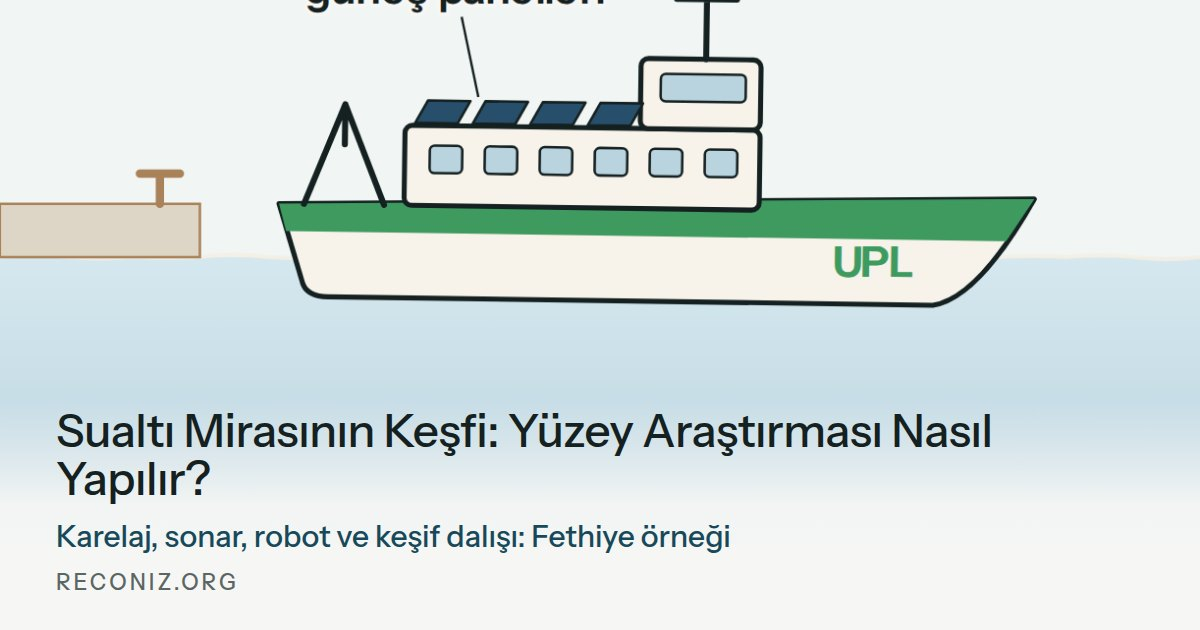
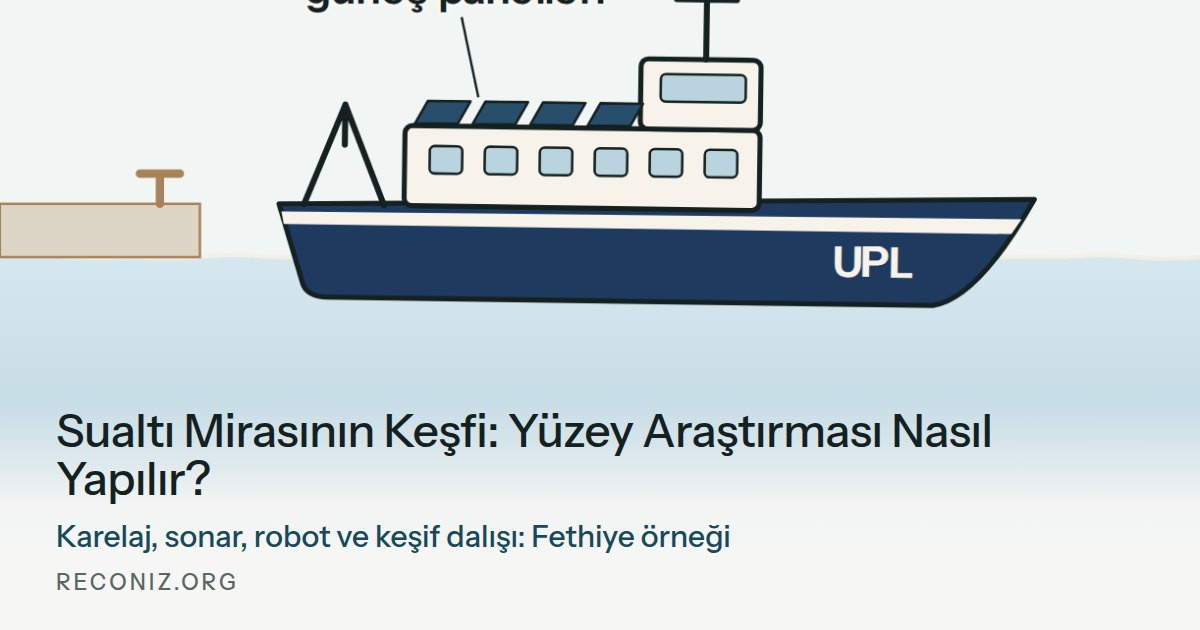
Yüzey araştırması: gemi lacivert-beyaz, ekip sahnesi (kaptan, Hakan Öniz, üç asistan, aşçı ve dalgıç)
Claude-Session: https://claude.ai/code/session_01KpGqkUWi5wxkv8FByy6VdA

diff --git a/arastirma/index.html b/arastirma/index.html
@@ -267,9 +267,9 @@ sup a{color:inherit;text-decoration:none}
 @keyframes wig{from{transform:rotate(-7deg)}to{transform:rotate(7deg)}}
 @media (prefers-reduced-motion: reduce){ .wig{animation:none} .step p{transition:none} }
 /* Sualtı Mirasının Keşfi: Yüzey Araştırması Nasıl Yapılır? */
-:root{ --paper:#FBF7EC; --gold:#D8A93A; --stone:#DDD6C6; --green:#3E9A5F; --panel:#274F6B; --d0:#C6DFEA; --d1:#93C0D4; --d2:#5E9BB8; }
-@media (prefers-color-scheme: dark){ :root:not([data-theme="light"]){ --paper:#2B2A24; --gold:#E0B64A; --stone:#7C7667; --green:#57B67A; --panel:#3B6E8F; --d0:#417C91; --d1:#285D72; --d2:#143B4C; } }
-:root[data-theme="dark"]{ --paper:#2B2A24; --gold:#E0B64A; --stone:#7C7667; --green:#57B67A; --panel:#3B6E8F; --d0:#417C91; --d1:#285D72; --d2:#143B4C; }
+:root{ --paper:#FBF7EC; --gold:#D8A93A; --stone:#DDD6C6; --navy:#1F3A5F; --panel:#274F6B; --d0:#C6DFEA; --d1:#93C0D4; --d2:#5E9BB8; }
+@media (prefers-color-scheme: dark){ :root:not([data-theme="light"]){ --paper:#2B2A24; --gold:#E0B64A; --stone:#7C7667; --navy:#3A5C8C; --panel:#3B6E8F; --d0:#417C91; --d1:#285D72; --d2:#143B4C; } }
+:root[data-theme="dark"]{ --paper:#2B2A24; --gold:#E0B64A; --stone:#7C7667; --navy:#3A5C8C; --panel:#3B6E8F; --d0:#417C91; --d1:#285D72; --d2:#143B4C; }
 </style>
 <meta property="og:type" content="website">
 <meta property="og:site_name" content="RecOniz">
@@ -346,7 +346,8 @@ tr:{title:"Sualtı Mirasının Keşfi: Yüzey Araştırması Nasıl Yapılır?",
   `Karelerin üzerine derinlik haritası gelir. Hangi karede dalgıcın, hangisinde yalnızca sonarın ve robotun çalışabileceğini derinlik belirler.${n(2)}`,
   `Hangi kareden başlanacağını ise denizi bilenler söyler. Kaptanlarla, dalgıçlarla, balıkçılarla konuşulur; ağın nereye takıldığı, dipte nerede küp görüldüğü sorulur ve kareler buna göre sıraya konur.${n(2)}`,
   `Sıra belli olunca ekip, Kültür ve Turizm Bakanlığı’nın izniyle denize açılır. UPL 38 metrelik bir araştırma gemisidir; makineleri dışındaki bütün elektriğini güneş panellerinden alan yeşil bir gemidir.${n(3)}`,
-  `Gemide on sekiz araştırmacı sonar görüntüsünü aynı anda izleyebilir; dalgıçlar için beş kişilik bir basınç odası da vardır.${n(3)}`,
+  `Gemide kaptan, araştırmanın başkanı ve geminin sorumlusu Hakan Öniz, üç asistanı ve hem aşçı hem dalgıç olan bir ekip üyesi vardır.`,
+  `Sonar görüntüsünü on sekiz araştırmacı aynı anda izleyebilir; dalgıçlar için beş kişilik bir basınç odası da vardır.${n(3)}`,
   `İlk karede gemi, tarlasını süren bir çiftçi gibi bir uçtan öbürüne gidip gelir. Çok ışınlı sonar, 500 metre derinliğe kadar dibin üç boyutlu görüntüsünü çıkarır.${n(4)}`,
   `Görüntünün çoğu kum ve kayadır. Arada bir, dibe uymayan bir biçim belirir: bir anomali.${n(2)}`,
   `Görüntü arkeolojik bir olasılık taşıyorsa o derinliğe bir robot indirilir. Robotun kamerası kayayı yükten ayırır.${n(4)}`,
@@ -354,18 +355,18 @@ tr:{title:"Sualtı Mirasının Keşfi: Yüzey Araştırması Nasıl Yapılır?",
   `O sezon Fethiye kıyılarında üç batık ve daha önce bilinmeyen bir antik demirleme yeri belgelenir: Tunç Çağı’ndan Osmanlı dönemine kadar gemilerin gelip demir attığı bir yer.${n(1)}`,
   `Belgelenen her buluntu Kültür ve Turizm Bakanlığı’na bildirilir ve envantere geçer; yeri yayımlanmaz.${n(2)} O sezon on yeni batıkla birlikte envanterdeki batık sayısı 411’den 421’e çıkar.${n(1)}`,
   `Masadaki haritada birkaç kare artık boş değildir. Deniz yukarıdan yine aynı görünür; ama altındakilerden birkaçı daha bilinmektedir.`],
- L:{fe:"Fethiye, 2025",grid:"karelaj",dmap:"derinlik haritası",sh:"sığ",dp:"derin",pri:"öncelik sırası",sol:"güneş panelleri",res:"18 araştırmacı",ch:"basınç odası: 5 kişi",son:"çok ışınlı sonar",an:"anomali",rov:"robot",dive:"keşif dalışı",w3:"3 batık",anc:"antik demirleme yeri",era1:"Tunç Çağı",era2:"Osmanlı",min:"Kültür ve Turizm Bakanlığı",inv:"envanterdeki batık",loc:"konum yayımlanmaz",sq:"taranan kareler"},
+ L:{fe:"Fethiye, 2025",grid:"karelaj",dmap:"derinlik haritası",sh:"sığ",dp:"derin",pri:"öncelik sırası",sol:"güneş panelleri",res:"18 araştırmacı",ch:"basınç odası: 5 kişi",son:"çok ışınlı sonar",an:"anomali",rov:"robot",dive:"keşif dalışı",w3:"3 batık",anc:"antik demirleme yeri",era1:"Tunç Çağı",era2:"Osmanlı",min:"Kültür ve Turizm Bakanlığı",inv:"envanterdeki batık",loc:"konum yayımlanmaz",sq:"taranan kareler",cap:"kaptan",ho:"Hakan Öniz",ast:"asistanlar",cook:"aşçı ve dalgıç"},
  uH:"UPL nasıl bir gemi?",
  uP:`UPL, Antalya’da yaklaşık bir yılda yapılan 38 metrelik bir sualtı arkeolojisi araştırma gemisidir; adını, yapımını destekleyen şirketten alır ve 2022’de tanıtılmıştır. 500 metre derinliğe kadar çalışan çok ışınlı bir sonar, görüntü ve örnek alabilen robotlar ve dalış kazalarına karşı beş kişilik bir basınç odası taşır. Makineleri dışındaki bütün elektriğini güneş panellerinden karşılar.${n(3)}`,
  fH:"Fethiye’de ne bulundu?",
  fP:`2025’te Fethiye kıyılarında üç batık ile daha önce bilinmeyen bir antik demirleme yeri belgelenmiştir. Demirleme yerinin Tunç Çağı’ndan Osmanlı dönemine kadar kullanıldığı; Mısır, Filistin, Lübnan ve Suriye kıyılarından gelen gemilerin burada fırtınadan korunduğu düşünülür. Araştırma, Kültür ve Turizm Bakanlığı’nın izniyle, “Geleceğe Miras Projesi” kapsamında, Akdeniz Üniversitesi’nden Hakan Öniz’in başkanlığında yürütülmüştür.${n(1)}`,
  kH:"Bu anlatım neye dayanıyor?",
- kP:`Geminin donanımı ve Fethiye’deki sonuçlar yayımlanmış haberlerden alınmıştır. Karelaj, derinlik haritası, denizcilerle görüşme ve buluntuların bildirilmesi adımları ise Hakan Öniz’in aktardığı çalışma yöntemine dayanır. Haritadaki kareler, derinlik renkleri ve işaretler şematiktir; hiçbir buluntunun yerini göstermez.${n(2)}`,
+ kP:`Geminin donanımı ve Fethiye’deki sonuçlar yayımlanmış haberlerden alınmıştır. Karelaj, derinlik haritası, denizcilerle görüşme ve buluntuların bildirilmesi adımları ise Hakan Öniz’in aktardığı çalışma yöntemine dayanır; ekibin tanıtımı ise anlatıcının gözlemidir. Haritadaki kareler, derinlik renkleri ve işaretler şematiktir; hiçbir buluntunun yerini göstermez.${n(2)}`,
  N:["DenizHaber (2025).","Yöntemin bu adımı Hakan Öniz’in aktardıklarına dayanır; yayımlanmış bir kaynağı yoktur.","Arkeolojik Haber (2022); Harman Time (2022).","Arkeolojik Haber (2022)."],
  refH:"Kaynaklar", notesH:"Notlar", refNote:"Kaynakça APA 7. baskı biçimindedir.",
  hint:"Kaydırarak ilerleyin",
  useH:"Kullanım",
- useSimple:"Bu sayfa konuyu herkesin anlayabileceği biçimde anlatmak için hazırlanmıştır; çizimler ve canlandırma şematiktir, ölçekli değildir. Gemi, sonar görüntüsü, robot ve harita çizimleri gerçek görünümleri göstermez; buluntu yerleri yayımlanmaz.",
+ useSimple:"Bu sayfa konuyu herkesin anlayabileceği biçimde anlatmak için hazırlanmıştır; çizimler ve canlandırma şematiktir, ölçekli değildir. Gemi, sonar görüntüsü, robot ve harita çizimleri gerçek görünümleri göstermez; buluntu yerleri yayımlanmaz. Ekip çizimleri, üyelerin anlatılan özelliklerinden yola çıkan şematik çizimlerdir; portre değildir.",
  credDev:"İçerik: Hakan Öniz · Anlatım: Muhammed Parlak (2026).",
  priv:"Sayfa ziyaretleri, çerez kullanılmadan ve kişisel veri toplanmadan anonim olarak sayılır.",
  rights:"© 2026 Muhammed Parlak. Tüm hakları saklıdır. Sayfa akademik, eğitsel ve kişisel amaçlarla ücretsiz kullanılabilir; kopyalanması, değiştirilmesi ya da yeniden dağıtılması yazılı izne bağlıdır.",
@@ -379,7 +380,8 @@ en:{title:"Discovering Underwater Heritage: How Is a Survey Carried Out?",
   `A depth map is laid over the squares. Depth decides in which square a diver can work, and in which only the sonar and the robot can.${n(2)}`,
   `Which square to start with is told by those who know the sea. The team talks with captains, divers and fishermen, asking where nets snag and where jars have been seen on the bottom; the squares are ranked accordingly.${n(2)}`,
   `Once the order is set, the team puts to sea with the permission of the Ministry of Culture and Tourism. UPL is a 38-metre research vessel: a green ship that draws all its electricity, except for its engines, from solar panels.${n(3)}`,
-  `On board, eighteen researchers can watch the sonar image at the same time; for the divers there is also a five-person pressure chamber.${n(3)}`,
+  `On board are the captain; Hakan Öniz, who heads the survey and is in charge of the ship; his three assistants; and a team member who is both cook and diver.`,
+  `Eighteen researchers can watch the sonar image at the same time; for the divers there is also a five-person pressure chamber.${n(3)}`,
   `In the first square the ship goes back and forth from one end to the other, like a farmer ploughing a field. The multibeam sonar builds a three-dimensional image of the seabed down to 500 metres.${n(4)}`,
   `Most of the image is sand and rock. Now and then a shape appears that does not belong to the bottom: an anomaly.${n(2)}`,
   `If the image holds archaeological promise, a robot is sent down to that depth. Its camera tells rock from cargo.${n(4)}`,
@@ -387,18 +389,18 @@ en:{title:"Discovering Underwater Heritage: How Is a Survey Carried Out?",
   `That season, three wrecks and a previously unknown ancient anchorage are documented off Fethiye: a place where ships came and dropped anchor from the Bronze Age to Ottoman times.${n(1)}`,
   `Every find that is documented is reported to the Ministry of Culture and Tourism and entered in the inventory; its position is not published.${n(2)} With ten new wrecks that season, the number of wrecks in the inventory rises from 411 to 421.${n(1)}`,
   `On the map on the table, a few squares are no longer empty. From above the sea looks the same as before; but a few more of the things beneath it are now known.`],
- L:{fe:"Fethiye, 2025",grid:"survey grid",dmap:"depth map",sh:"shallow",dp:"deep",pri:"order of priority",sol:"solar panels",res:"18 researchers",ch:"pressure chamber: 5 people",son:"multibeam sonar",an:"anomaly",rov:"robot",dive:"exploration dive",w3:"3 wrecks",anc:"ancient anchorage",era1:"Bronze Age",era2:"Ottoman",min:"Ministry of Culture and Tourism",inv:"wrecks in the inventory",loc:"position not published",sq:"squares scanned"},
+ L:{fe:"Fethiye, 2025",grid:"survey grid",dmap:"depth map",sh:"shallow",dp:"deep",pri:"order of priority",sol:"solar panels",res:"18 researchers",ch:"pressure chamber: 5 people",son:"multibeam sonar",an:"anomaly",rov:"robot",dive:"exploration dive",w3:"3 wrecks",anc:"ancient anchorage",era1:"Bronze Age",era2:"Ottoman",min:"Ministry of Culture and Tourism",inv:"wrecks in the inventory",loc:"position not published",sq:"squares scanned",cap:"captain",ho:"Hakan Öniz",ast:"assistants",cook:"cook and diver"},
  uH:"What kind of ship is UPL?",
  uP:`UPL is a 38-metre underwater archaeology research vessel built in Antalya in about a year; it takes its name from the company that supported its construction and was presented in 2022. It carries a multibeam sonar that works down to 500 metres, robots that can take images and samples, and a five-person pressure chamber in case of diving accidents. All its electricity, except for its engines, comes from solar panels.${n(3)}`,
  fH:"What was found off Fethiye?",
  fP:`In 2025, three wrecks and a previously unknown ancient anchorage were documented off Fethiye. The anchorage is thought to have been used from the Bronze Age to Ottoman times, and ships coming from the coasts of Egypt, Palestine, Lebanon and Syria are thought to have sheltered here from storms. The survey was carried out with the permission of the Ministry of Culture and Tourism of Türkiye, within the “Heritage for the Future Project”, under the direction of Hakan Öniz of Akdeniz University.${n(1)}`,
  kH:"What is this account based on?",
- kP:`The ship’s equipment and the results from Fethiye are taken from published news reports. The steps of gridding, depth mapping, talking with seafarers and reporting the finds rest on the working method as described by Hakan Öniz. The squares, depth colours and marks on the map are schematic; they do not show the position of any find.${n(2)}`,
+ kP:`The ship’s equipment and the results from Fethiye are taken from published news reports. The steps of gridding, depth mapping, talking with seafarers and reporting the finds rest on the working method as described by Hakan Öniz; the introduction of the team is the narrator’s own observation. The squares, depth colours and marks on the map are schematic; they do not show the position of any find.${n(2)}`,
  N:["DenizHaber (2025).","This step of the method rests on what Hakan Öniz has described; it has no published source.","Arkeolojik Haber (2022); Harman Time (2022).","Arkeolojik Haber (2022)."],
  refH:"References", notesH:"Notes", refNote:"The reference list follows APA 7th edition.",
  hint:"Scroll to continue",
  useH:"Use",
- useSimple:"This page was prepared to explain the subject in a way everyone can follow; the drawings and the animation are schematic and not to scale. The drawings of the ship, the sonar image, the robot and the map do not show their real appearance; the positions of finds are not published.",
+ useSimple:"This page was prepared to explain the subject in a way everyone can follow; the drawings and the animation are schematic and not to scale. The drawings of the ship, the sonar image, the robot and the map do not show their real appearance; the positions of finds are not published. The drawings of the team are schematic, based on a description of its members; they are not portraits.",
  credDev:"Content: Hakan Öniz · Narration: Muhammed Parlak (2026).",
  priv:"Page visits are counted anonymously, without cookies and without collecting personal data.",
  rights:"© 2026 Muhammed Parlak. All rights reserved. The page may be used free of charge for academic, educational and personal purposes; copying, modification or redistribution requires written permission.",
@@ -412,7 +414,8 @@ es:{title:"El descubrimiento del patrimonio subacuático: ¿cómo se hace una pr
   `Sobre las cuadrículas se coloca el mapa de profundidades. La profundidad decide en qué cuadrícula puede trabajar un buceador y en cuál solo el sonar y el robot.${n(2)}`,
   `Por cuál cuadrícula empezar lo dicen quienes conocen el mar. Se habla con capitanes, buceadores y pescadores; se pregunta dónde se enganchan las redes y dónde se han visto ánforas en el fondo, y las cuadrículas se ordenan según eso.${n(2)}`,
   `Fijado el orden, el equipo se hace a la mar con el permiso del Ministerio de Cultura y Turismo. El UPL es un buque de investigación de 38 metros: un barco verde que obtiene de paneles solares toda su electricidad, salvo la de los motores.${n(3)}`,
-  `A bordo, dieciocho investigadores pueden seguir a la vez la imagen del sonar; para los buceadores hay además una cámara hiperbárica para cinco personas.${n(3)}`,
+  `A bordo van el capitán; Hakan Öniz, que dirige la prospección y es el responsable del barco; sus tres ayudantes; y una integrante del equipo que es a la vez cocinera y buceadora.`,
+  `Dieciocho investigadores pueden seguir a la vez la imagen del sonar; para los buceadores hay además una cámara hiperbárica para cinco personas.${n(3)}`,
   `En la primera cuadrícula el barco va y viene de un extremo a otro, como un agricultor que ara su campo. El sonar multihaz obtiene una imagen tridimensional del fondo hasta los 500 metros.${n(4)}`,
   `La mayor parte de la imagen es arena y roca. De vez en cuando aparece una forma que no encaja con el fondo: una anomalía.${n(2)}`,
   `Si la imagen tiene interés arqueológico, se baja un robot a esa profundidad. Su cámara distingue la roca del cargamento.${n(4)}`,
@@ -420,18 +423,18 @@ es:{title:"El descubrimiento del patrimonio subacuático: ¿cómo se hace una pr
   `Esa campaña se documentan frente a Fethiye tres pecios y un fondeadero antiguo hasta entonces desconocido: un lugar donde los barcos llegaron a fondear desde la Edad del Bronce hasta la época otomana.${n(1)}`,
   `Cada hallazgo documentado se comunica al Ministerio de Cultura y Turismo y pasa al inventario; su posición no se publica.${n(2)} Con diez pecios nuevos esa campaña, el número de pecios del inventario pasa de 411 a 421.${n(1)}`,
   `En el mapa de la mesa, algunas cuadrículas ya no están vacías. Desde arriba el mar sigue pareciendo el mismo; pero ahora se conocen algunas cosas más de las que hay debajo.`],
- L:{fe:"Fethiye, 2025",grid:"cuadrícula",dmap:"mapa de profundidades",sh:"somero",dp:"profundo",pri:"orden de prioridad",sol:"paneles solares",res:"18 investigadores",ch:"cámara hiperbárica: 5 personas",son:"sonar multihaz",an:"anomalía",rov:"robot",dive:"inmersión de reconocimiento",w3:"3 pecios",anc:"fondeadero antiguo",era1:"Edad del Bronce",era2:"época otomana",min:"Ministerio de Cultura y Turismo",inv:"pecios en el inventario",loc:"posición no publicada",sq:"cuadrículas exploradas"},
+ L:{fe:"Fethiye, 2025",grid:"cuadrícula",dmap:"mapa de profundidades",sh:"somero",dp:"profundo",pri:"orden de prioridad",sol:"paneles solares",res:"18 investigadores",ch:"cámara hiperbárica: 5 personas",son:"sonar multihaz",an:"anomalía",rov:"robot",dive:"inmersión de reconocimiento",w3:"3 pecios",anc:"fondeadero antiguo",era1:"Edad del Bronce",era2:"época otomana",min:"Ministerio de Cultura y Turismo",inv:"pecios en el inventario",loc:"posición no publicada",sq:"cuadrículas exploradas",cap:"capitán",ho:"Hakan Öniz",ast:"ayudantes",cook:"cocinera y buceadora"},
  uH:"¿Qué clase de barco es el UPL?",
  uP:`El UPL es un buque de investigación de arqueología subacuática de 38 metros, construido en Antalya en aproximadamente un año; toma su nombre de la empresa que apoyó su construcción y se presentó en 2022. Lleva un sonar multihaz que trabaja hasta los 500 metros, robots capaces de tomar imágenes y muestras, y una cámara hiperbárica para cinco personas por si hay accidentes de buceo. Toda su electricidad, salvo la de los motores, procede de paneles solares.${n(3)}`,
  fH:"¿Qué se encontró frente a Fethiye?",
  fP:`En 2025 se documentaron frente a Fethiye tres pecios y un fondeadero antiguo hasta entonces desconocido. Se cree que el fondeadero se utilizó desde la Edad del Bronce hasta la época otomana, y que los barcos que venían de las costas de Egipto, Palestina, Líbano y Siria se resguardaban aquí de las tormentas. La prospección se llevó a cabo con el permiso del Ministerio de Cultura y Turismo de Türkiye, dentro del «Proyecto Patrimonio para el Futuro», bajo la dirección de Hakan Öniz, de la Universidad de Akdeniz.${n(1)}`,
  kH:"¿En qué se basa este relato?",
- kP:`El equipamiento del barco y los resultados de Fethiye proceden de noticias publicadas. Los pasos de la cuadrícula, el mapa de profundidades, las conversaciones con la gente de mar y la comunicación de los hallazgos se basan en el método de trabajo descrito por Hakan Öniz. Las cuadrículas, los colores de profundidad y las marcas del mapa son esquemáticos; no indican la posición de ningún hallazgo.${n(2)}`,
+ kP:`El equipamiento del barco y los resultados de Fethiye proceden de noticias publicadas. Los pasos de la cuadrícula, el mapa de profundidades, las conversaciones con la gente de mar y la comunicación de los hallazgos se basan en el método de trabajo descrito por Hakan Öniz; la presentación del equipo es una observación del propio narrador. Las cuadrículas, los colores de profundidad y las marcas del mapa son esquemáticos; no indican la posición de ningún hallazgo.${n(2)}`,
  N:["DenizHaber (2025).","Este paso del método se basa en lo que ha descrito Hakan Öniz; no tiene fuente publicada.","Arkeolojik Haber (2022); Harman Time (2022).","Arkeolojik Haber (2022)."],
  refH:"Referencias", notesH:"Notas", refNote:"La lista de referencias sigue la 7.ª edición de APA.",
  hint:"Desliza para continuar",
  useH:"Uso",
- useSimple:"Esta página se ha preparado para explicar el tema de forma que todos puedan seguirlo; los dibujos y la animación son esquemáticos y no están a escala. Los dibujos del barco, la imagen del sonar, el robot y el mapa no muestran su aspecto real; las posiciones de los hallazgos no se publican.",
+ useSimple:"Esta página se ha preparado para explicar el tema de forma que todos puedan seguirlo; los dibujos y la animación son esquemáticos y no están a escala. Los dibujos del barco, la imagen del sonar, el robot y el mapa no muestran su aspecto real; las posiciones de los hallazgos no se publican. Los dibujos del equipo son esquemáticos, basados en una descripción de sus miembros; no son retratos.",
  credDev:"Contenido: Hakan Öniz · Narración: Muhammed Parlak (2026).",
  priv:"Las visitas a la página se cuentan de forma anónima, sin cookies y sin recopilar datos personales.",
  rights:"© 2026 Muhammed Parlak. Todos los derechos reservados. La página puede utilizarse gratuitamente con fines académicos, educativos y personales; su copia, modificación o redistribución requiere autorización por escrito.",
@@ -454,7 +457,7 @@ const rng=s=>()=>{ s=(s*1664525+1013904223)>>>0; return s/4294967296; };
 const clamp=(v,a,b)=>Math.max(a,Math.min(b,v)), ease=t=>t<.5?2*t*t:1-Math.pow(-2*t+2,2)/2, seg=(t,a,b)=>clamp((t-a)/(b-a),0,1), lerp=(a,b,k)=>a+(b-a)*k;
 const FF="Instrument Sans,system-ui,sans-serif";
 const YEARS=[1884,1963,1970,1976,1985,1986,1988,1996,2006,2009];
-const START=[0,1,3,4,5,6,8,9,10,11,12];
+const START=[0,1,3,4,5,6,7,9,10,11,12,13];
 
 /* ================= sahne ================= */
 const SC={waves:[],sc:[]}; const SURF=128, BED=372, GR=352;
@@ -531,13 +534,13 @@ const CELLS=[[0,1,0],[1,1,0],[3,3,0],[4,3,0],[21,3,0],[22,3,0],[23,3,0],[2,4,0],
     for(const [nm,x,y,a] of [["Fethiye",277.8,163.8,"start"],["Kaş",406.8,293.5,"start"],["Antalya",669.8,80.3,"end"]]){ el(B,"circle",{cx:x,cy:y,r:4.5,style:"fill:var(--ink)"}); halo(txt(B,x+(a==="end"?-9:9),y-9,21,a)).textContent=nm; }
     return B; };
   const upl=p=>{ const g=el(p,"g",{});
-    el(g,"path",{d:"M-150 -20 L-140 12 Q-138 17 -130 17 H112 Q130 14 152 -26 Z",style:"fill:var(--sail);stroke:var(--ink)","stroke-width":2,"stroke-linejoin":"round"});
-    el(g,"path",{d:"M-150 -20 L-147 -9 H141 L152 -26 Z",style:"fill:var(--green)"});
+    el(g,"path",{d:"M-150 -20 L-140 12 Q-138 17 -130 17 H112 Q130 14 152 -26 Z",style:"fill:var(--navy);stroke:var(--ink)","stroke-width":2,"stroke-linejoin":"round"});
+    el(g,"path",{d:"M-149 -17 L-148 -12 H143 L147 -18 Z",style:"fill:var(--sail)"});
     el(g,"rect",{x:-100,y:-52,width:142,height:32,rx:3,style:"fill:var(--sail);stroke:var(--ink)","stroke-width":2}); for(let i=0;i<6;i++) el(g,"rect",{x:-90+i*22,y:-44,width:13,height:11,rx:2,style:"fill:var(--water-b);stroke:var(--ink)","stroke-width":1});
     el(g,"rect",{x:-6,y:-80,width:48,height:28,rx:3,style:"fill:var(--sail);stroke:var(--ink)","stroke-width":2}); el(g,"rect",{x:2,y:-74,width:34,height:11,rx:2,style:"fill:var(--water-b);stroke:var(--ink)","stroke-width":1});
     g.sol=el(g,"g",{}); for(let i=0;i<4;i++) el(g.sol,"path",{d:`M${-96+i*23} -53 l5 -9 h17 l-5 9Z`,style:"fill:var(--panel);stroke:var(--ink)","stroke-width":1,"stroke-linejoin":"round"});
     el(g,"path",{d:"M20 -80 V-112 M8 -104 H32 M-140 -20 L-124 -60 L-108 -20 M-124 -60 V-44",fill:"none",style:"stroke:var(--ink)","stroke-width":2.4,"stroke-linecap":"round","stroke-linejoin":"round"});
-    el(g,"text",{x:88,y:6,"text-anchor":"middle","font-family":FF,"font-size":17,"font-weight":700,style:"fill:var(--green)"}).textContent="UPL"; return g; };
+    el(g,"text",{x:88,y:6,"text-anchor":"middle","font-family":FF,"font-size":17,"font-weight":700,style:"fill:var(--sail)"}).textContent="UPL"; return g; };
   const rov=p=>{ const g=el(p,"g",{}); g.cone=el(g,"path",{d:"M22 4 L96 -22 L96 44 Z",style:"fill:var(--paper)",opacity:.28});
     el(g,"rect",{x:-26,y:-16,width:50,height:28,rx:5,style:"fill:var(--gold);stroke:var(--cavity)","stroke-width":1.6}); el(g,"path",{d:"M-26 14 H26 M-20 12 V20 M20 12 V20 M-24 20 H24",fill:"none",style:"stroke:var(--cavity)","stroke-width":2,"stroke-linecap":"round"});
     el(g,"circle",{cx:16,cy:-1,r:6.5,style:"fill:var(--water-a);stroke:var(--cavity)","stroke-width":1.6}); el(g,"circle",{cx:-10,cy:-2,r:5,fill:"none",style:"stroke:var(--cavity)","stroke-width":1.6}); return g; };
@@ -549,6 +552,30 @@ const CELLS=[[0,1,0],[1,1,0],[3,3,0],[4,3,0],[21,3,0],[22,3,0],[23,3,0],[2,4,0],
   const mound=(p,x)=>{ const g=el(p,"g",{}); for(const [dx,dy,r] of [[-30,-6,-78],[-10,-9,-20],[12,-8,34],[32,-5,82],[-18,-22,12],[6,-24,-40],[22,-19,64]]) mkPot(g,x+dx,bedY(x)+dy,r,1.5); return g; };
   const anchorI=(p,x,y,sc)=>el(p,"path",{d:"M0 -22 a5 5 0 1 0 0.1 0 M0 -12 V22 M-12 -4 H12 M-20 6 Q-18 22 0 24 Q18 22 20 6 M-20 6 l-5 8 M-20 6 l8 5 M20 6 l5 8 M20 6 l-8 5",transform:`translate(${x} ${y}) scale(${sc||1})`,fill:"none",style:"stroke:var(--ink)","stroke-width":3,"stroke-linecap":"round","stroke-linejoin":"round"});
   const tile=(p,x,y,w,h,v)=>el(p,"rect",{x,y,width:w,height:h,rx:16,style:`fill:var(--raised);stroke:var(${v||"--line"})`,"stroke-width":v?2.4:1.6});
+
+  /* ekip üyesi: baş merkezi (0,0); anlatılan özelliklere göre şematik çizim, portre değildir */
+  const crew=(p,x,y,o)=>{ const g=el(p,"g",{}), OUT="stroke:#4A3120", SK=o.skin||"#E9BF9B", HC=o.hair||"#5B3A21", sh=o.sh||55, D="#1d2522"; g.bx=x; g.by=y;
+    if(o.long) el(g,"path",{d:"M-27 -4 Q-31 -38 0 -38 Q31 -38 27 -4 L30 42 Q19 48 13 30 H-13 Q-19 48 -30 42Z",style:`fill:${HC};${OUT}`,"stroke-width":1.4,"stroke-linejoin":"round"});
+    if(o.curls){ const C=["#3A3632","#D9D6CE","#8C8880"]; let k=0; for(let a=150;a<=390;a+=20){ const r=a*Math.PI/180; el(g,"circle",{cx:(Math.cos(r)*29).toFixed(1),cy:(Math.sin(r)*30-2).toFixed(1),r:10,style:`fill:${C[k++%3]};${OUT}`,"stroke-width":1}); } for(const sx of [-1,1]) for(let i=0;i<4;i++) el(g,"circle",{cx:sx*(29+(i%2)*4),cy:8+i*11,r:9.5,style:`fill:${C[k++%3]};${OUT}`,"stroke-width":1}); }
+    el(g,"path",{d:`M${-sh} 132 V64 Q${-sh} 46 ${-sh+24} 42 L-10 35 H10 L${sh-24} 42 Q${sh} 46 ${sh} 64 V132Z`,style:`fill:${o.shirt||"var(--navy)"};${OUT}`,"stroke-width":1.6,"stroke-linejoin":"round"});
+    if(o.apron){ el(g,"path",{d:"M-25 132 V66 H25 V132Z",style:`fill:var(--sail);${OUT}`,"stroke-width":1.4}); el(g,"path",{d:"M-25 66 L-11 38 M25 66 L11 38",fill:"none",style:OUT,"stroke-width":2.2,"stroke-linecap":"round"}); }
+    else el(g,"path",{d:"M-12 36 L0 50 L12 36",fill:"none",style:o.shirt?"stroke:var(--navy)":"stroke:var(--sail)","stroke-width":3,"stroke-linecap":"round","stroke-linejoin":"round"});
+    el(g,"rect",{x:-9,y:20,width:18,height:20,style:`fill:${SK};${OUT}`,"stroke-width":1.3});
+    const rx=o.rx||23; for(const sx of [-1,1]) el(g,"ellipse",{cx:sx*(rx+1),cy:1,rx:4.2,ry:6.6,style:`fill:${SK};${OUT}`,"stroke-width":1.3});
+    const F=o.face==="bony"?"M-22 -8 Q-23 -29 0 -30 Q23 -29 22 -8 L19 9 L10 25 Q0 30 -10 25 L-19 9Z":o.face==="pointed"?"M-18 -10 Q-19 -32 0 -33 Q19 -32 18 -10 L14 12 Q5 34 0 35 Q-5 34 -14 12Z":o.face==="round"?"M-25 0 Q-26 -28 0 -28 Q26 -28 25 0 Q24 26 0 27 Q-24 26 -25 0Z":"M-23 -2 Q-24 -30 0 -30 Q24 -30 23 -2 Q22 28 0 29 Q-22 28 -23 -2Z";
+    el(g,"path",{d:F,style:`fill:${SK};${OUT}`,"stroke-width":1.6,"stroke-linejoin":"round"});
+    if(o.face==="bony") el(g,"path",{d:"M-18 6 L-11 14 M18 6 L11 14",fill:"none",style:OUT,"stroke-width":1.3,"stroke-linecap":"round",opacity:.55});
+    if(o.beard==="short") el(g,"path",{d:"M-21 3 Q-20 25 0 30 Q20 25 21 3 Q16 13 9 13 Q0 9 -9 13 Q-16 13 -21 3Z",style:`fill:${HC};${OUT}`,"stroke-width":1.2,"stroke-linejoin":"round"});
+    if(o.beard==="curly"){ for(let a=10;a<=170;a+=16){ const r=a*Math.PI/180; el(g,"circle",{cx:(Math.cos(r)*22).toFixed(1),cy:(Math.sin(r)*24+4).toFixed(1),r:6.4,style:`fill:#F3F0E8;${OUT}`,"stroke-width":.9}); } for(let a=40;a<=140;a+=20){ const r=a*Math.PI/180; el(g,"circle",{cx:(Math.cos(r)*13).toFixed(1),cy:(Math.sin(r)*14+10).toFixed(1),r:6,style:`fill:#F3F0E8;${OUT}`,"stroke-width":.9}); } }
+    if(o.cut==="buzz") el(g,"path",{d:"M-23 -9 Q-25 -32 0 -33 Q25 -32 23 -9 Q20 -23 0 -24 Q-20 -23 -23 -9Z",style:`fill:${HC};${OUT}`,"stroke-width":1.2,"stroke-linejoin":"round"});
+    if(o.cut==="recede") el(g,"path",{d:`M${-rx} -10 Q${-rx-1} -34 0 -35 Q${rx+1} -34 ${rx} -10 Q${rx-3} -19 ${rx-10} -26 Q7 -17 0 -21 Q-7 -17 ${-rx+10} -26 Q${-rx+3} -19 ${-rx} -10Z`,style:`fill:${HC};${OUT}`,"stroke-width":1.2,"stroke-linejoin":"round"});
+    if(o.long) el(g,"path",{d:"M-24 -6 Q-26 -33 0 -34 Q26 -33 24 -6 Q18 -22 2 -22 Q-14 -20 -24 -6Z",style:`fill:${HC};${OUT}`,"stroke-width":1.2,"stroke-linejoin":"round"});
+    if(o.cap){ for(const sx of [-1,1]) el(g,"circle",{cx:sx*22,cy:-8,r:5,style:`fill:#F3F0E8;${OUT}`,"stroke-width":.9}); el(g,"path",{d:"M-26 -15 Q-27 -38 0 -39 Q27 -38 26 -15Z",style:`fill:var(--sail);${OUT}`,"stroke-width":1.4,"stroke-linejoin":"round"}); el(g,"rect",{x:-26,y:-20,width:52,height:8,style:`fill:var(--navy);${OUT}`,"stroke-width":1.2}); el(g,"path",{d:"M-23 -12 Q0 -3 23 -12 Q0 -8 -23 -12Z",style:`fill:#1d2522;${OUT}`,"stroke-width":1}); }
+    for(const sx of [-1,1]){ if(o.iris){ el(g,"circle",{cx:sx*9,cy:-3,r:3.6,style:`fill:${o.iris};stroke:${D}`,"stroke-width":.8}); el(g,"circle",{cx:sx*9,cy:-3,r:1.5,style:`fill:${D}`}); } else el(g,"circle",{cx:sx*9,cy:-3,r:2.4,style:`fill:${D}`}); el(g,"path",{d:`M${sx*4.5} -10 q${sx*5} -3 ${sx*10} 0`,fill:"none",style:`stroke:${o.cap||o.curls?"#8C8880":HC==="#F3F0E8"?"#8C8880":D}`,"stroke-width":2,"stroke-linecap":"round",opacity:.85}); }
+    el(g,"path",{d:o.nose==="pointed"?"M-1 -3 L6 9 L-2 10":"M1 -1 q4 7 -1 10",fill:"none",style:OUT,"stroke-width":1.5,"stroke-linecap":"round","stroke-linejoin":"round",opacity:.75});
+    if(o.smile===2){ el(g,"path",{d:"M-10 14 Q0 25 10 14 Q0 17 -10 14Z",style:`fill:#fff;${OUT}`,"stroke-width":1.3,"stroke-linejoin":"round"}); } else el(g,"path",{d:"M-8 16 Q0 21 8 16",fill:"none",style:OUT,"stroke-width":1.8,"stroke-linecap":"round"});
+    if(o.beard==="curly") el(g,"path",{d:"M-11 12 Q-5 8 0 11 Q5 8 11 12 Q5 15 0 13 Q-5 15 -11 12Z",style:`fill:#F3F0E8;${OUT}`,"stroke-width":.9});
+    return g; };
 
   /* ===== A · olağan dünya: yukarıdan bakınca deniz (0) ===== */
   { const A=SC.A=seaTop(); A.c=card(A,440,34,256,62,""); A.c.querySelector("text").remove(); A.c.t.setAttribute("y",74);
@@ -572,7 +599,19 @@ const CELLS=[[0,1,0],[1,1,0],[3,3,0],[4,3,0],[21,3,0],[22,3,0],[23,3,0],[2,4,0],
     el(D,"path",{d:"M0 268 V236 H120 V268Z",style:"fill:var(--stone);stroke:var(--wood-d)","stroke-width":1.5}); el(D,"path",{d:"M96 236 V218 M84 218 H108",fill:"none",style:"stroke:var(--wood-d)","stroke-width":5,"stroke-linecap":"round"});
     D.ship=upl(D); D.len=el(D,"g",{opacity:0}); el(D.len,"path",{d:"M-150 46 H152 M-150 38 V54 M152 38 V54",fill:"none",style:"stroke:var(--ink)","stroke-width":1.6}); halo(txt(D.len,0,74,23,"middle",700)).textContent="38 m";
     D.sl=lab(D,0,0,0,0,"start"); D.sl.firstChild.remove(); D.slP=el(D.sl,"path",{fill:"none",style:"stroke:var(--ink)","stroke-width":1.4}); }
-  /* ===== E · eşik: gemide ekran başında (5) ===== */
+  /* ===== T · eşik: gemidekiler (5) ===== */
+  { const T=SC.T=scene(); el(T,"rect",{x:0,y:252,width:720,height:188,fill:"url(#wG)"}); el(T,"path",{d:"M0 252 H720",fill:"none",style:"stroke:var(--tube)","stroke-width":2,opacity:.8});
+    el(T,"rect",{x:36,y:96,width:648,height:250,rx:8,style:"fill:var(--sail);stroke:var(--ink)","stroke-width":2}); for(let i=0;i<6;i++) el(T,"rect",{x:66+i*104,y:118,width:64,height:40,rx:8,style:"fill:var(--water-b);stroke:var(--ink)","stroke-width":1.4});
+    T.c=[crew(T,84,246,{cap:1,beard:"curly",hair:"#F3F0E8",skin:"#DDAA80",shirt:"var(--sail)",sh:50,smile:1}),
+         crew(T,196,214,{face:"bony",cut:"buzz",hair:"#7D7468",iris:"#58AFC2",smile:2,sh:60}),
+         crew(T,308,216,{cut:"recede",beard:"short",hair:"#B5652A",smile:1,shirt:"var(--sail)",sh:57}),
+         crew(T,416,214,{long:1,beard:"short",hair:"#5B3A21",smile:2,shirt:"var(--sail)",sh:57}),
+         crew(T,524,210,{face:"pointed",rx:18,cut:"recede",hair:"#2A2320",skin:"#C48B5E",nose:"pointed",smile:1,shirt:"var(--sail)",sh:48}),
+         crew(T,636,246,{face:"round",rx:25,curls:1,smile:2,apron:1,sh:60})];
+    el(T,"path",{d:"M0 346 H720 V440 H0Z",style:"fill:var(--navy);stroke:var(--ink)","stroke-width":2}); el(T,"path",{d:"M0 356 H720",fill:"none",style:"stroke:var(--sail)","stroke-width":3});
+    T.lb=[[84,0],[196,1],[416,2],[636,3]].map(([x])=>{ const t=el(T,"text",{x,y:398,"text-anchor":"middle","font-family":FF,"font-size":19,"font-weight":600,style:"fill:var(--sail)",opacity:0}); return t; });
+    T.br=el(T,"path",{d:"M262 372 V378 H570 V372",fill:"none",style:"stroke:var(--sail)","stroke-width":2,opacity:0}); }
+  /* ===== E · eşik: gemide ekran başında (6) ===== */
   { const E=SC.E=scene(); el(E,"rect",{x:60,y:44,width:420,height:230,rx:14,style:"fill:var(--cavity);stroke:var(--ink)","stroke-width":3}); el(E,"rect",{x:76,y:60,width:388,height:198,rx:6,style:"fill:var(--water-b)"});
     E.ct=[]; for(let i=0;i<6;i++){ let d=`M76 ${96+i*28}`; for(let x=96;x<=464;x+=20) d+=` L${x} ${(96+i*28+Math.sin(x*0.022+i*1.3)*9+(x>250&&x<330&&i>1&&i<5?-16*Math.sin((x-250)/80*Math.PI):0)).toFixed(1)}`; E.ct.push(el(E,"path",{d,fill:"none",style:"stroke:var(--sea)","stroke-width":2,opacity:.8})); }
     E.scan=el(E,"rect",{x:76,y:60,width:6,height:198,style:"fill:var(--paper)",opacity:.55});
@@ -612,7 +651,7 @@ const CELLS=[[0,1,0],[1,1,0],[3,3,0],[4,3,0],[21,3,0],[22,3,0],[23,3,0],[2,4,0],
     K.l=txt(K.m,568,140,19); }
 })();
 
-/* p = adım + adım içi. Kahramanın yolculuğu: olağan dünya A 0 · çağrı B 1–2 · yol gösteren C 3 · eşik D 4, E 5 · sınavlar F 6–7, G 8, H 9 · ödül I 10 · dönüş J 11, K 12 */
+/* p = adım + adım içi. Kahramanın yolculuğu: olağan dünya A 0 · çağrı B 1–2 · yol gösteren C 3 · eşik D 4, T 5, E 6 · sınavlar F 7–8, G 9, H 10 · ödül I 11 · dönüş J 12, K 13 (T'den sonraki sahnelerde q=p-1) */
 let P=0, IDLE=0, LBL={};
 const setT=(g,x,y,r,s)=>g.setAttribute("transform",`translate(${x.toFixed(1)} ${y.toFixed(1)})${r?` rotate(${r.toFixed(1)})`:""}${s!=null?` scale(${s})`:""}`);
 const bY=x=>BED-8*Math.sin(x*0.011)-5*Math.sin(x*0.031+1);
@@ -620,7 +659,7 @@ const seaWaves=(A,t)=>A.wv.forEach((w,r)=>{ const y=196+r*36, off=(t*14*(r%2?1:-
 function draw(p){ P=p; const t=IDLE, bob=Math.sin(t*1.3)*2.5;
   SC.sc.forEach((g,i)=>{ const a=START[i], b=START[i+1], o=i===0?1:seg(p,a-.04,a+.14), hide=o<=0||(b!==undefined&&p>b+.16); g.style.display=hide?"none":""; g.setAttribute("opacity",o); g.on=!hide; });
   let wv="M0 "+SURF; for(let x=40;x<=720;x+=40) wv+=` Q${x-20} ${(SURF+Math.sin(x*0.05+t*1.6)*3).toFixed(1)} ${x} ${SURF}`; for(const w of SC.waves) w.setAttribute("d",wv);
-  const {A,B,C,D,E,F,G,H,I,J,K}=SC;
+  const {A,B,C,D,T,E,F,G,H,I,J,K}=SC, q=p-1;
   if(A.on){ seaWaves(A,t); A.c.setAttribute("opacity",seg(p,.05,.25)); A.q.forEach((q,i)=>q.setAttribute("opacity",(seg(p,.4+i*.12,.56+i*.12)*(.22+.12*Math.sin(t*1.6+i*2))).toFixed(2))); }
   if(B.on){ const n=B.cells.length, g1=seg(p,1.08,1.7), dm=ease(seg(p,2.08,2.5)); B.cells.forEach((q,i)=>{ const o=seg(g1*n,i,i+6); q.setAttribute("opacity",o); const on=dm>(q.c*30+q.r*12)/900; q.setAttribute("style",`fill:${on?`var(--d${q.k})`:"none"};stroke:var(--sea)`); });
     B.l.setAttribute("opacity",seg(p,1.1,1.26)); B.l.t.textContent=p<2.02?LBL.grid:LBL.dmap; B.leg.setAttribute("opacity",seg(p,2.3,2.5)); }
@@ -628,23 +667,25 @@ function draw(p){ P=p; const t=IDLE, bob=Math.sin(t*1.3)*2.5;
   if(D.on){ let w2="M0 268"; for(let x=40;x<=720;x+=40) w2+=` Q${x-20} ${(268+Math.sin(x*0.05+t*1.6)*2.6).toFixed(1)} ${x} 268`; D.w.setAttribute("d",w2); const k=ease(seg(p,4.1,4.7)), sx=lerp(284,392,k), sy=268+bob*.6; setT(D.ship,sx,sy,Math.sin(t*.9)*.8,1.5);
     D.len.setAttribute("transform",`translate(${sx.toFixed(1)} ${sy.toFixed(1)}) scale(1.5)`); D.len.setAttribute("opacity",seg(p,4.3,4.46)); D.len.lastChild.setAttribute("font-size",16);
     const lx=sx-70*1.5, ly=sy-62*1.5; D.slP.setAttribute("d",`M${lx.toFixed(1)} ${(ly-4).toFixed(1)} L${(lx-10).toFixed(1)} ${(ly-52).toFixed(1)}`); D.sl.t.setAttribute("x",(lx-14).toFixed(1)); D.sl.t.setAttribute("y",(ly-60).toFixed(1)); D.sl.t.setAttribute("text-anchor","middle"); D.sl.setAttribute("opacity",seg(p,4.56,4.72)); }
-  if(E.on){ const u=(t*.22)%1; E.scan.setAttribute("x",(76+u*382).toFixed(1)); E.ct.forEach((c,i)=>c.setAttribute("opacity",(.45+.4*Math.sin(t*1.4+i)).toFixed(2))); E.h.forEach((g,i)=>g.setAttribute("opacity",seg(p,5.1+i*.02,5.16+i*.02))); E.rl.setAttribute("opacity",seg(p,5.46,5.6)); const k=ease(seg(p,5.62,5.8)); E.ch.setAttribute("opacity",k); E.ch.setAttribute("transform",`translate(${(20*(1-k)).toFixed(1)} 0)`); }
-  if(F.on){ const u=seg(p,6.08,6.9), pass=u*3, dir=Math.floor(Math.min(pass,2.999))%2===0?1:-1, f=pass-Math.floor(Math.min(pass,2.999)), x=dir>0?lerp(110,610,f):lerp(610,110,f), sx=p>=7?430:x; setT(F.ship,sx,SURF+bob,Math.sin(t*.9)*1.2,.42);
+  if(T.on){ T.c.forEach((g,i)=>{ const k=ease(seg(p,5.06+i*.1,5.24+i*.1)); g.setAttribute("opacity",k); g.setAttribute("transform",`translate(${g.bx} ${(g.by+14*(1-k)+Math.sin(t*1.1+i*1.3)*1.2).toFixed(1)})`); });
+    T.lb.forEach((l,i)=>l.setAttribute("opacity",seg(p,[5.2,5.3,5.56,5.7][i],[5.34,5.44,5.7,5.84][i]))); T.br.setAttribute("opacity",seg(p,5.56,5.7)); }
+  if(E.on){ const u=(t*.22)%1; E.scan.setAttribute("x",(76+u*382).toFixed(1)); E.ct.forEach((c,i)=>c.setAttribute("opacity",(.45+.4*Math.sin(t*1.4+i)).toFixed(2))); E.h.forEach((g,i)=>g.setAttribute("opacity",seg(q,5.1+i*.02,5.16+i*.02))); E.rl.setAttribute("opacity",seg(q,5.46,5.6)); const k=ease(seg(q,5.62,5.8)); E.ch.setAttribute("opacity",k); E.ch.setAttribute("transform",`translate(${(20*(1-k)).toFixed(1)} 0)`); }
+  if(F.on){ const u=seg(q,6.08,6.9), pass=u*3, dir=Math.floor(Math.min(pass,2.999))%2===0?1:-1, f=pass-Math.floor(Math.min(pass,2.999)), x=dir>0?lerp(110,610,f):lerp(610,110,f), sx=q>=7?430:x; setT(F.ship,sx,SURF+bob,Math.sin(t*.9)*1.2,.42);
     F.fan.setAttribute("d",`M${sx.toFixed(1)} ${SURF+8} L${(sx-74).toFixed(1)} ${bY(sx-74).toFixed(1)} L${(sx+74).toFixed(1)} ${bY(sx+74).toFixed(1)}Z`); F.fan.setAttribute("opacity",(.22+.1*Math.sin(t*6)).toFixed(2));
     const x1=pass>=1?610:Math.max(110,x), x0=110; let d=`M${x0} ${(bY(x0)-3).toFixed(1)}`; for(let q=x0+20;q<=x1;q+=20) d+=` L${q} ${(bY(q)-3-(q>388&&q<474?26*Math.sin((q-388)/86*Math.PI):0)).toFixed(1)}`; F.tr.setAttribute("d",d);
-    F.zz.setAttribute("stroke-dashoffset",(F.zz.L*(1-u)).toFixed(1)); F.sl.setAttribute("opacity",seg(p,6.3,6.46)*(1-seg(p,6.96,7.06)));
-    const a=seg(p,7.14,7.34); F.ring.setAttribute("opacity",a); F.ring.setAttribute("r",(54+Math.sin(t*3)*3).toFixed(1)); F.al.setAttribute("opacity",seg(p,7.3,7.46)); F.rocks.forEach((r,i)=>r.setAttribute("opacity",1)); }
-  if(G.on){ setT(G.ship,330,SURF+bob,Math.sin(t*.9)*1.2,.42); const k=ease(seg(p,8.08,8.56)), rx=lerp(330,326,k)+Math.sin(t*1.1)*3, ry=lerp(SURF+30,bY(430)-46,k)+Math.cos(t*1.4)*2.4; setT(G.r,rx,ry,0); G.te.setAttribute("d",`M330 ${(SURF+8+bob).toFixed(1)} Q${(rx-34).toFixed(1)} ${((SURF+ry)/2).toFixed(1)} ${(rx-22).toFixed(1)} ${(ry-12).toFixed(1)}`);
-    const rv=seg(p,8.56,8.8); G.m.setAttribute("opacity",rv); G.base.setAttribute("opacity",1-rv*.6); G.r.cone.setAttribute("opacity",(.2+.14*seg(p,8.4,8.56)).toFixed(2)); G.l.setAttribute("x",rx.toFixed(1)); G.l.setAttribute("y",(ry-30).toFixed(1)); G.l.setAttribute("opacity",seg(p,8.2,8.36)); }
-  if(H.on){ setT(H.ship,330,SURF+bob,Math.sin(t*.9)*1.2,.42); const k=ease(seg(p,9.06,9.5)); const d0=[lerp(300,372,k)+Math.sin(t*.8)*5,lerp(SURF+30,bY(430)-56,k)+Math.cos(t*1.1)*3], d1=[lerp(360,510,k)+Math.sin(t*.7+2)*5,lerp(SURF+34,bY(430)-70,k)+Math.cos(t*1.2+1)*3];
+    F.zz.setAttribute("stroke-dashoffset",(F.zz.L*(1-u)).toFixed(1)); F.sl.setAttribute("opacity",seg(q,6.3,6.46)*(1-seg(q,6.96,7.06)));
+    const a=seg(q,7.14,7.34); F.ring.setAttribute("opacity",a); F.ring.setAttribute("r",(54+Math.sin(t*3)*3).toFixed(1)); F.al.setAttribute("opacity",seg(q,7.3,7.46)); F.rocks.forEach((r,i)=>r.setAttribute("opacity",1)); }
+  if(G.on){ setT(G.ship,330,SURF+bob,Math.sin(t*.9)*1.2,.42); const k=ease(seg(q,8.08,8.56)), rx=lerp(330,326,k)+Math.sin(t*1.1)*3, ry=lerp(SURF+30,bY(430)-46,k)+Math.cos(t*1.4)*2.4; setT(G.r,rx,ry,0); G.te.setAttribute("d",`M330 ${(SURF+8+bob).toFixed(1)} Q${(rx-34).toFixed(1)} ${((SURF+ry)/2).toFixed(1)} ${(rx-22).toFixed(1)} ${(ry-12).toFixed(1)}`);
+    const rv=seg(q,8.56,8.8); G.m.setAttribute("opacity",rv); G.base.setAttribute("opacity",1-rv*.6); G.r.cone.setAttribute("opacity",(.2+.14*seg(q,8.4,8.56)).toFixed(2)); G.l.setAttribute("x",rx.toFixed(1)); G.l.setAttribute("y",(ry-30).toFixed(1)); G.l.setAttribute("opacity",seg(q,8.2,8.36)); }
+  if(H.on){ setT(H.ship,330,SURF+bob,Math.sin(t*.9)*1.2,.42); const k=ease(seg(q,9.06,9.5)); const d0=[lerp(300,372,k)+Math.sin(t*.8)*5,lerp(SURF+30,bY(430)-56,k)+Math.cos(t*1.1)*3], d1=[lerp(360,510,k)+Math.sin(t*.7+2)*5,lerp(SURF+34,bY(430)-70,k)+Math.cos(t*1.2+1)*3];
     setT(H.dv[0],d0[0],d0[1],lerp(60,18,k)); setT(H.dv[1],d1[0],d1[1],lerp(110,162,k),"1 -1");
-    const tp=ease(seg(p,9.52,9.74)); H.tape.setAttribute("d",`M392 ${(bY(430)-34).toFixed(1)} H${lerp(392,478,tp).toFixed(1)}`); H.tape.setAttribute("opacity",tp>0?1:0);
-    const fl=seg(p,9.78,9.82)*(1-seg(p,9.84,9.94)); H.fl.setAttribute("cx",486); H.fl.setAttribute("cy",(bY(430)-62).toFixed(1)); H.fl.setAttribute("opacity",(fl*.85).toFixed(2));
-    H.bb.forEach((b,i)=>{ const u=((t*.25+i/8)%1), s=i%2?d1:d0; b.setAttribute("cx",(s[0]+(i%2?-18:22)+Math.sin(u*6+i)*5).toFixed(1)); b.setAttribute("cy",(s[1]-10-u*110).toFixed(1)); b.setAttribute("opacity",(k>=1?.7*(1-u):0).toFixed(2)); }); H.l.setAttribute("opacity",seg(p,9.14,9.3)); }
-  if(I.on){ I.t.forEach((g,i)=>{ const k=ease(seg(p,10.08+i*.12,10.26+i*.12)); g.setAttribute("opacity",k); g.setAttribute("transform",`translate(0 ${(18*(1-k)).toFixed(1)})`); }); I.wl.setAttribute("opacity",seg(p,10.4,10.54));
-    const k=ease(seg(p,10.5,10.7)); I.a.setAttribute("opacity",k); I.a.setAttribute("transform",`translate(0 ${(18*(1-k)).toFixed(1)})`); I.bar.setAttribute("opacity",seg(p,10.68,10.8)); I.fill.setAttribute("stroke-dashoffset",(600*(1-ease(seg(p,10.72,10.94)))).toFixed(1)); }
-  if(J.on){ J.ar.setAttribute("opacity",seg(p,11.14,11.3)); const k=ease(seg(p,11.24,11.46)); J.b.setAttribute("opacity",k); J.b.setAttribute("transform",`translate(${(20*(1-k)).toFixed(1)} 0)`); J.cn.setAttribute("opacity",seg(p,11.5,11.64)); J.num.textContent=Math.round(lerp(411,421,ease(seg(p,11.6,11.9)))); }
-  if(K.on){ seaWaves(K,t); const k=ease(seg(p,12.12,12.34)); K.m.setAttribute("opacity",k); K.m.setAttribute("transform",`translate(0 ${(-14*(1-k)).toFixed(1)})`); K.sq.forEach((q,i)=>{ const on=[1,3,4,8,9].includes(i)&&p>12.34+[1,3,4,8,9].indexOf(i)*.08; q.setAttribute("style",`fill:${on?"var(--sea)":"none"};stroke:var(--sea)`); }); }
+    const tp=ease(seg(q,9.52,9.74)); H.tape.setAttribute("d",`M392 ${(bY(430)-34).toFixed(1)} H${lerp(392,478,tp).toFixed(1)}`); H.tape.setAttribute("opacity",tp>0?1:0);
+    const fl=seg(q,9.78,9.82)*(1-seg(q,9.84,9.94)); H.fl.setAttribute("cx",486); H.fl.setAttribute("cy",(bY(430)-62).toFixed(1)); H.fl.setAttribute("opacity",(fl*.85).toFixed(2));
+    H.bb.forEach((b,i)=>{ const u=((t*.25+i/8)%1), s=i%2?d1:d0; b.setAttribute("cx",(s[0]+(i%2?-18:22)+Math.sin(u*6+i)*5).toFixed(1)); b.setAttribute("cy",(s[1]-10-u*110).toFixed(1)); b.setAttribute("opacity",(k>=1?.7*(1-u):0).toFixed(2)); }); H.l.setAttribute("opacity",seg(q,9.14,9.3)); }
+  if(I.on){ I.t.forEach((g,i)=>{ const k=ease(seg(q,10.08+i*.12,10.26+i*.12)); g.setAttribute("opacity",k); g.setAttribute("transform",`translate(0 ${(18*(1-k)).toFixed(1)})`); }); I.wl.setAttribute("opacity",seg(q,10.4,10.54));
+    const k=ease(seg(q,10.5,10.7)); I.a.setAttribute("opacity",k); I.a.setAttribute("transform",`translate(0 ${(18*(1-k)).toFixed(1)})`); I.bar.setAttribute("opacity",seg(q,10.68,10.8)); I.fill.setAttribute("stroke-dashoffset",(600*(1-ease(seg(q,10.72,10.94)))).toFixed(1)); }
+  if(J.on){ J.ar.setAttribute("opacity",seg(q,11.14,11.3)); const k=ease(seg(q,11.24,11.46)); J.b.setAttribute("opacity",k); J.b.setAttribute("transform",`translate(${(20*(1-k)).toFixed(1)} 0)`); J.cn.setAttribute("opacity",seg(q,11.5,11.64)); J.num.textContent=Math.round(lerp(411,421,ease(seg(q,11.6,11.9)))); }
+  if(K.on){ seaWaves(K,t); const k=ease(seg(q,12.12,12.34)); K.m.setAttribute("opacity",k); K.m.setAttribute("transform",`translate(0 ${(-14*(1-k)).toFixed(1)})`); K.sq.forEach((q,i)=>{ const on=[1,3,4,8,9].includes(i)&&q>12.34+[1,3,4,8,9].indexOf(i)*.08; q.setAttribute("style",`fill:${on?"var(--sea)":"none"};stroke:var(--sea)`); }); }
 }
 /* kaydırmayla ilerleme */
 let stepEls=[], curStep=-1;
@@ -661,6 +702,7 @@ function applyLang(){ document.documentElement.lang=LANG; document.querySelector
   const S=T("S"), st=$("#steps"); if(!stepEls.length){ S.forEach(()=>{ const d=document.createElement("div"); d.className="step"; d.append(document.createElement("p")); st.append(d); stepEls.push(d); $("#dots").append(document.createElement("i")); }); }
   stepEls.forEach((e,k)=>e.firstChild.innerHTML=S[k]);
   const X=T("L"), {A,B,C,D,E,F,G,H,I,J,K}=SC; LBL=X;
+  [X.cap,X.ho,X.ast,X.cook].forEach((v,i)=>SC.T.lb[i].textContent=v);
   A.c.t.textContent=X.fe; B.sh.textContent=X.sh; B.dp.textContent=X.dp; C.l.textContent=X.pri; D.sl.t.textContent=X.sol; E.rl.textContent=X.res; E.cl.textContent=X.ch; F.sl.textContent=X.son; F.al.textContent=X.an;
   G.l.textContent=X.rov; H.l.textContent=X.dive; I.wl.textContent=X.w3; I.al.textContent=X.anc; I.e1.textContent=X.era1; I.e2.textContent=X.era2; J.rl.textContent=X.loc; J.ml.textContent=X.min; J.il.textContent=X.inv; K.l.textContent=X.sq;
   $("#notes").innerHTML=T("N").map((x,k)=>`<li id="n${k+1}">${x}</li>`).join("");

diff --git a/sw.js b/sw.js
@@ -1,5 +1,5 @@
 // RecOniz service worker: çevrimdışı çalışma için uygulama, model ve kütüphaneler önbellekte tutulur
-const C='reconiz-v42';
+const C='reconiz-v43';
 const CORE=['/','/rejoiner/','/coins/','/onem/','/teredo/','/arastirma/','/koruma/','/sorumluluk/','/coins/data.json','/coins/model.json','/manifest.webmanifest','/icon-192.png','/icon-512.png','/icon-maskable-512.png','/apple-touch-icon.png','/favicon.svg','/favicon-32.png','/ml/ort.wasm.min.js','/ml/three.min.js','/ml/ort-wasm-simd.wasm','/ml/ort-wasm.wasm','/ml/u2netp.onnx.b64.txt'];
 self.addEventListener('install',e=>{e.waitUntil(caches.open(C).then(c=>c.addAll(CORE)).then(()=>self.skipWaiting()));});
 self.addEventListener('activate',e=>{e.waitUntil(caches.keys().then(ks=>Promise.all(ks.filter(k=>k!==C).map(k=>caches.delete(k)))).then(()=>self.clients.claim()));});
